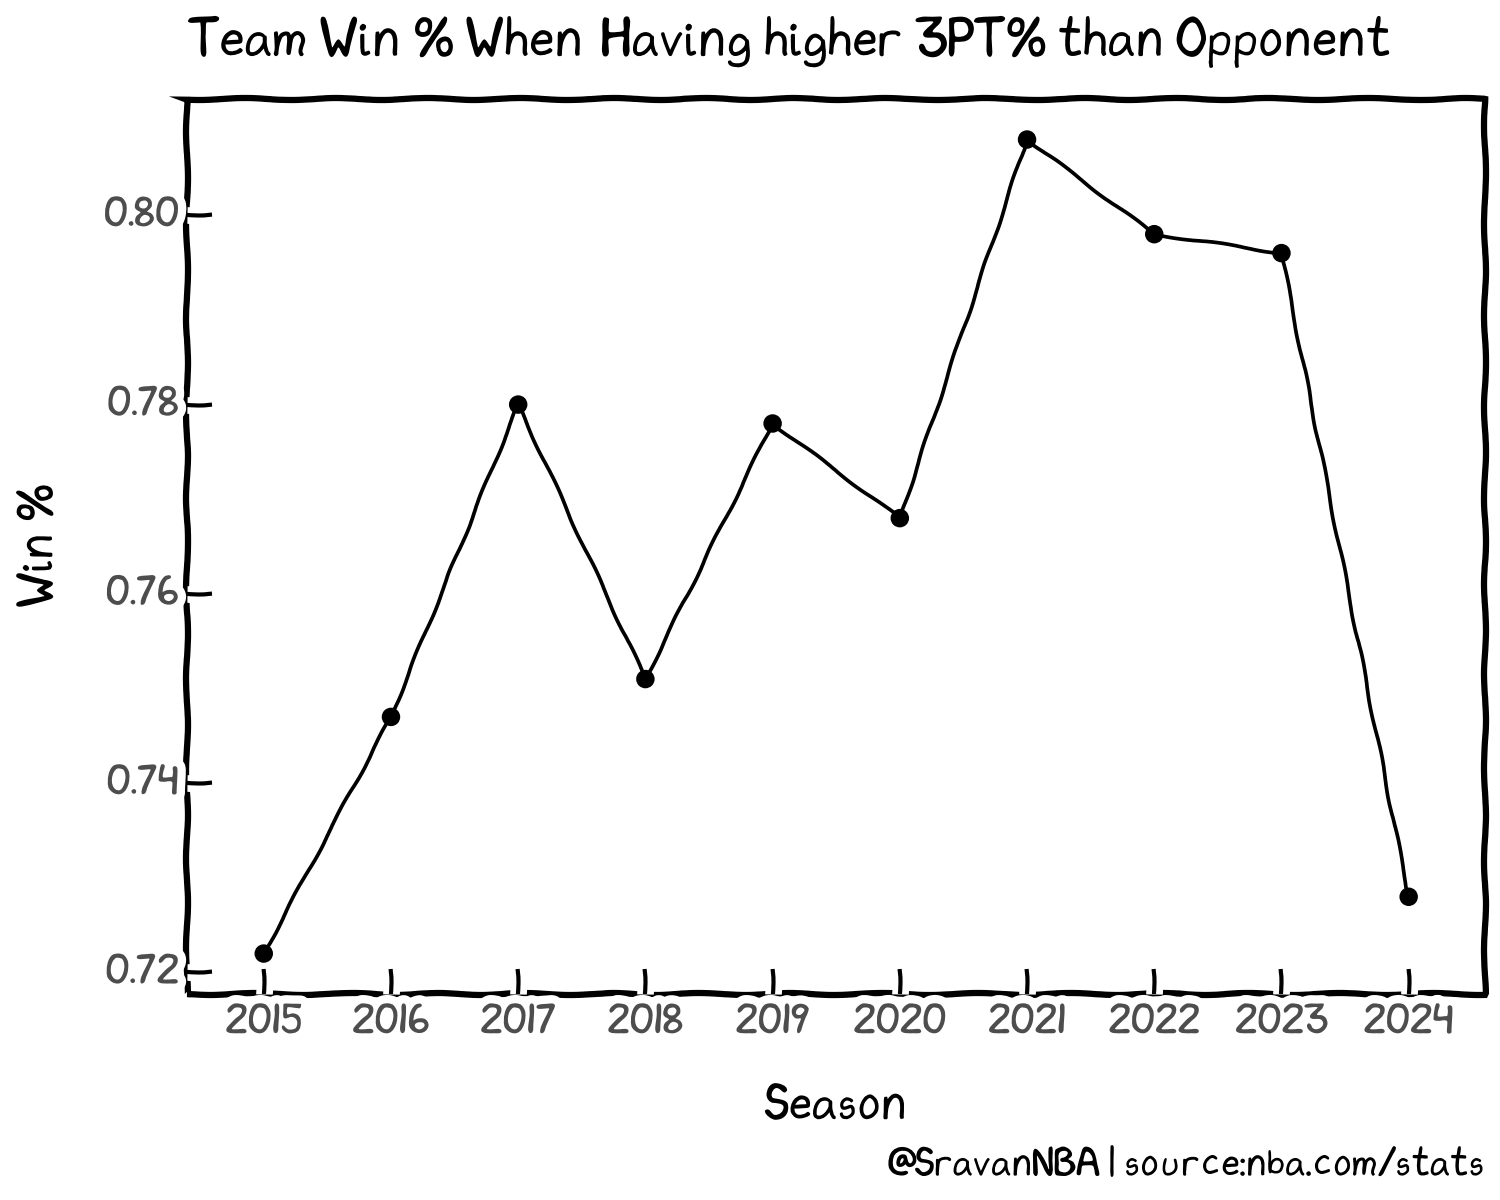
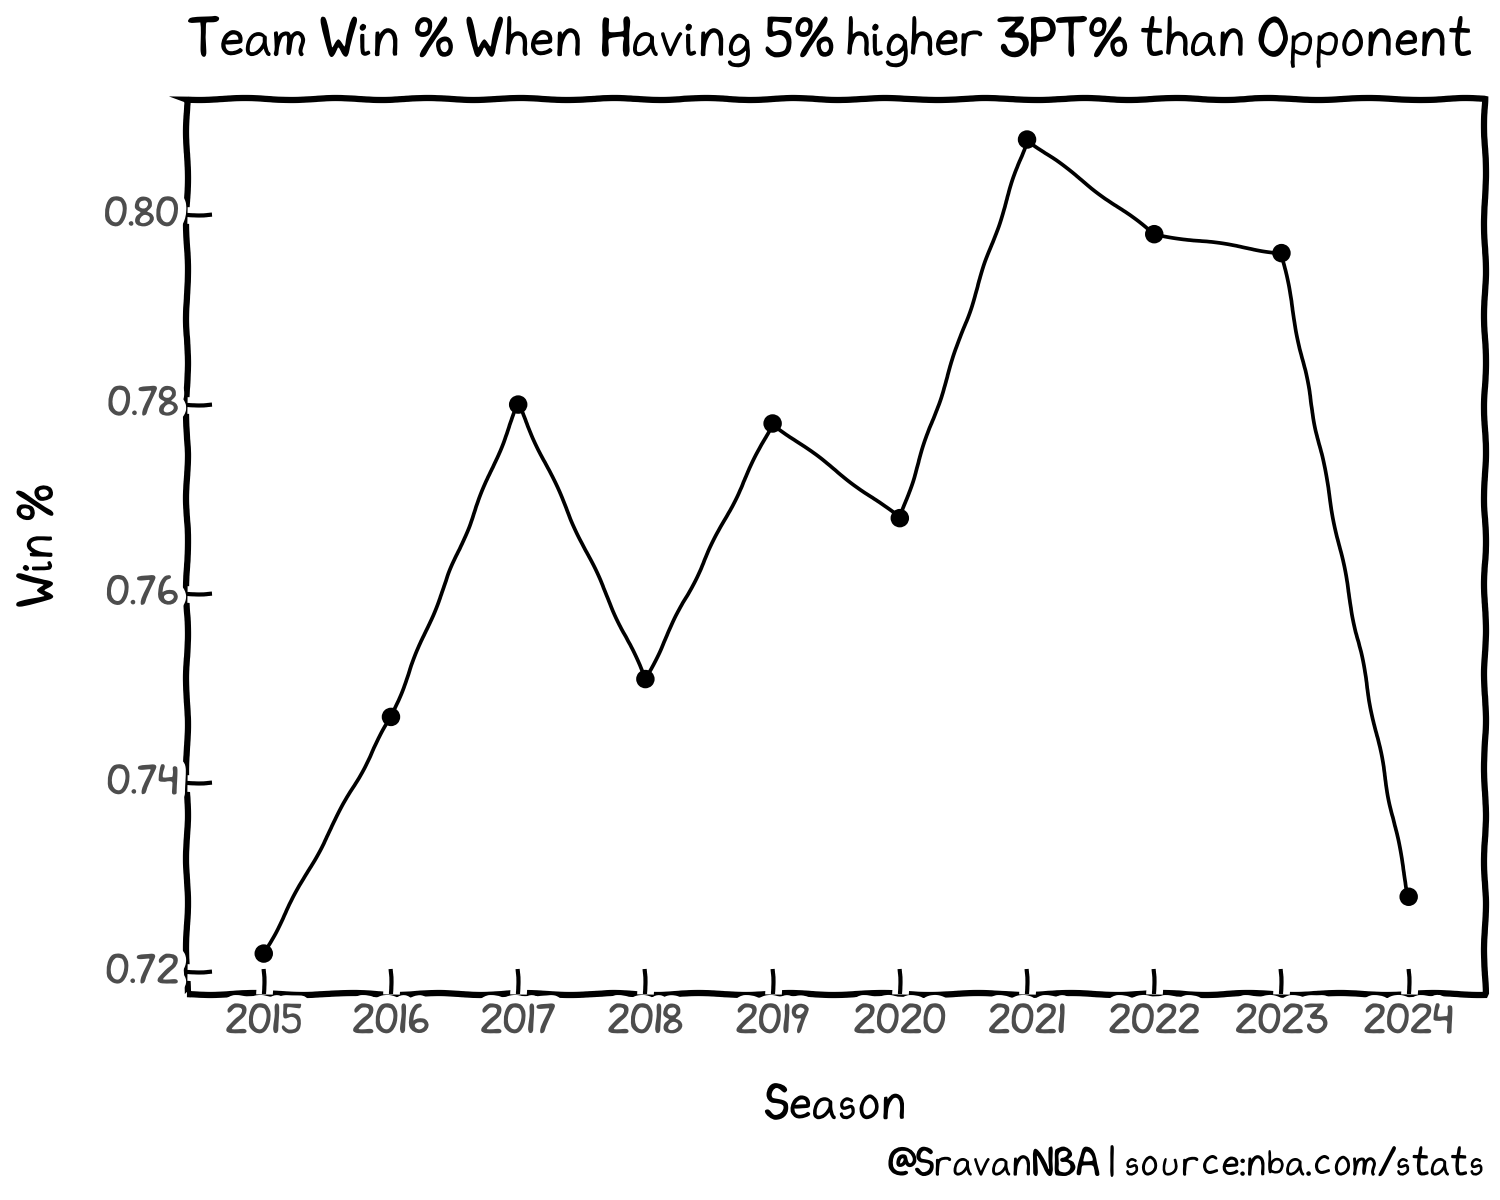
change typos

Changed region(s): [[0.5213, 0.0, 0.9813, 0.0617]]

diff --git a/content/posts/nba-3pt-winning/index.md b/content/posts/nba-3pt-winning/index.md
@@ -36,7 +36,7 @@ Actually, we see similar trends even when teams attempt 5 more 3 pointers than t
 
 <img src="./nba_3pt_winning_5.png" width="500" height="400">
 
-Hence, we have to explore additional metrics like 3PM and 3P%.
+Hence, we have to explore additional metrics like 3PM and 3PT%.
 
 ## How often does a team win when it outscores its opponent from 3PT range:
 ### Team 3PM > Opponent 3PM
@@ -56,8 +56,8 @@ What if a team makes 2 more 3 pointers than their opponents:
 In such situations, we see that the teams win at anywhere between 70% and 74% of their games, which translates to 57.5 to 61 wins. If we consider an average win % of 72 we get to 59 wins, which is 4 wins higher than when teams just make more 3s than opponents. 
 
 ## How often does a team win when it is more accurate than its opponent from 3PT range:
-### Team 3P% > Opponent 3P%
-Next, I want to explore how important is the accuracy i.e. the 3PT percentage (3P%), rather than makes, is to team winning.
+### Team 3PT% > Opponent 3PT%
+Next, I want to explore how important is the accuracy i.e. the 3PT percentage (3PT%), rather than makes, is to team winning.
 Here is how often do teams win in those situations:
 
 <img src="./nba_3pt_winning_8.png" width="500" height="400">
@@ -66,19 +66,19 @@ We see that teams win anywhere between 68-74% when they make more 3s than their 
 
 Thus, we see that teams win at a slightly higher rate when they're more accurate from 3, compared to just making more 3s.  
 
-### Team 3P% > Opponent 3P% + 5%
-Now, what if team 3P% is 5% higher than opponent 3P%:
+### Team 3PT% > Opponent 3PT% + 5%
+Now, what if team 3PT% is 5% higher than opponent 3PT%:
 
 <img src="./nba_3pt_winning_9.png" width="500" height="400">
 
 In this situation, teams win anywhere between 72% and 81%, which is a much higher percentage than the previous situations explored.
 This is equivalent to 59-66.5 wins during an 82 game season. We observe an increasing trend in win% in this condition from 2014-2021, peaking at 80.8% during 2020-21 season. Then, there was a slight drop off to 79.8% during 2021-22 and 79.6% during 2022-23, before going through a sharp drop off to 72.8% for this season. Since, only a quarter of this season's game have been played as of today, there is a chance that this number might rise by the end of the season. I think we have to revisit and observe the trend at the end of the season.
 
-So, removing this season, the teams are winning at around 80%, equivalent to 65.5 wins when teams 3P% is 5% higher than opponent 3P%. This condition shows a much higher correlation to winning than the previous conditions considered, which were closer to 55-58 wins. 
+So, removing this season, the teams are winning at around 80%, equivalent to 65.5 wins when teams 3PT% is 5% higher than opponent 3PT%. This condition shows a much higher correlation to winning than the previous conditions considered, which were closer to 55-58 wins. 
 
 ## Conclusion
 
-Analyzing the 3PT trends over the past 10 seasons, we see that 3PT accuracy has a very high correlation to winning. Teams are winning 80% of their games when team 3P% is 5% higher than opponent 3P%, equivalent to 65.5 wins during an 82 game season. This number shows the importance of accurate 3PT shooting to winning in the NBA.
+Analyzing the 3PT trends over the past 10 seasons, we see that 3PT accuracy has a very high correlation to winning. Teams are winning 80% of their games when team 3PT% is 5% higher than opponent 3PT%, equivalent to 65.5 wins during an 82 game season. This number shows the importance of accurate 3PT shooting to winning in the NBA.
 
 Thank you for reading and any feedback is appreciated. You can reach me on Twitter at [@SravanNBA](https://twitter.com/SravanNBA).
 
